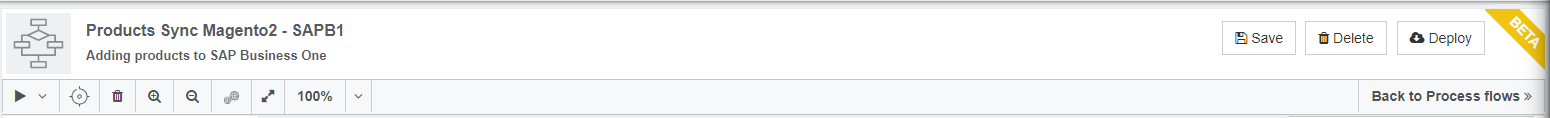
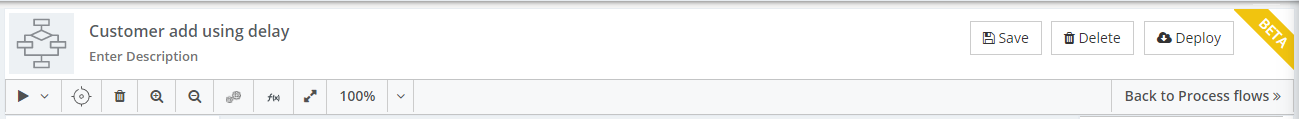
Update Functions Listing, edit, create & Validate

diff --git a/_posts/ProcessFlow Management/Quickstart/2020-03-16-designer-processflow.md b/_posts/ProcessFlow Management/Quickstart/2020-03-16-designer-processflow.md
@@ -22,12 +22,12 @@ This section enables the user to implement business scenarios by designing proce
 The page is divided into 4 sections that are static for every processflow designing page. 
 The following sections are:  
 
-**processflow Header panel**  
-**processflow Left panel**  
-**processflow Designer View**  
-**processflow Right Panel**  
+**Processflow Header panel**  
+**Processflow Left panel**  
+**Processflow Designer View**  
+**Processflow Right Panel**  
 
-## processflow Header Panel
+## Processflow Header Panel
 
 ![Create Processflow4](../../staticfiles/processflow/media/create-processflow4.png)
 
@@ -46,7 +46,8 @@ Details of the list of executable buttons are given below:
 * Delete button: The delete button will allow to delete the selected Nodes and link in the processflow. You will get a confirmation pop-up for the delete operation of the workflow. 
 * Zoom in: You can zoom in the processflows for better viewing purpose.
 * Zoom out: You can zoom out the processflow for better user experience. Users can also resize the screen accordingly. 
-* Link Order: YOu can sequence your execution order of your processflow. On clicking the [Link Order](/processflow/link-order-sequencing/) button, the order sequence window configuration window opens.
+* Link Order: You can sequence your execution order of your processflow. On clicking the [Link Order](/processflow/link-order-sequencing/) button, the order sequence window configuration window opens.
+* User Defined Functions: Here, you can implement multiple Cloud Appresource User Defined Functions for implementing Definite Tasks within your ProcessFlow. For more details on the Cloud Appresource User Defined Functions, [Click Here](/processflow/overview-of-user-defined-functions/).
 * To view the screen in full screen mode, click the Button for Full Screen.
 * You will have the option adjust the screen resolution to 100%, 50% & 25% & Fit to Screen as per the need.
 * Save: The save button allows you to save the following processflow for later use. You can edit the processflows anytime by clicking the edit button available in the processflow listing Page.
@@ -54,7 +55,7 @@ Details of the list of executable buttons are given below:
 
 You can view the **Back to processflow** button that will navigate you to the [listing page](/processflow/processflow-listing-page/). 
 
-## processflow Left Panel
+## Processflow Left Panel
 Here the users can add processflows nodes to the processflow designer panel. The nodes
  can be dragged and dropped in the design panel for configuring & designing the Process 
 flow. Users can utilize any node based on the business requirement and can view the 
@@ -77,14 +78,14 @@ On dragging the applications to the designer panel, the node configuration windo
 
 ![Create Processflow5](../../staticfiles/processflow/media/create-processflow5.png)
 
-## processflow Designer View 
+## Processflow Designer View 
 Here you can design/create the processflow. Drag and drop the required nodes to the 
 designer panel for creating the processflow. Expanding the menu in the left panel, 
 you can view all the node that can applied for designing the processflow.
 
 ![Create Processflow6](../../staticfiles/processflow/media/create-processflow6.png)  
 
-## processflow Right Panel
+## Processflow Right Panel
 The right panel of the processflow Designer Page will have the following sections:  
 ![Create Processflow7](../../staticfiles/processflow/media/create-processflow7.PNG)  
 * Suggested Node: Here you will get suggestions of providing nodes that can be applied with the node dragged in the processflow designer panel.

diff --git a/_posts/ProcessFlow Management/User Defined Functions/2014-01-14-Create-User-Defined-Functions.md b/_posts/ProcessFlow Management/User Defined Functions/2014-01-14-Create-User-Defined-Functions.md
@@ -27,7 +27,7 @@ Follow the steps below to create the user Defined Cloud Appresource Functions.
 
 1) Login to the Portal and Navigate to the [ProcessFlow Designer](/processflow/designer-processflow/) Page.
 
-2) Click on the Functions Icon available in Header Panel of the designer page.
+2) Click on the Functions Icon available in [Header Panel](/processflow/designer-processflow/#processflow-header-panel) of the designer page.
 
 ![udfcreate1](\staticfiles\processflow\media\udfcreate1.png)
 
@@ -37,20 +37,20 @@ Follow the steps below to create the user Defined Cloud Appresource Functions.
 
 ## Creating User Defined Functions
 
-Once you are in the UDF Listing window, you can now proceed with the create of User Defined Functions.
+Once you are in the UDF Listing window, you can now create User Defined Functions.
 
-4) Click on the **(+)** button to create functions.
-The CREATE Page Opens.
+4) Click on the **(+)** button beside the FILTER icons to create functions.
+The CREATE Page opens on your Right.
 
 ![udfcreate4](\staticfiles\processflow\media\udfcreate4.png)
 
-5) Either way you will land on the **CREATE Page** for defining the function.
+**You can anytime FILTER your created functions using Function Name, if the list of Functions is exhaustive.**
 
-6) You need to Provide the **Function Name** & **Description** for its definition.
+5) You need to Provide the **Function Name** & **Function Description** for its definition.
 
 ![udfcreate5](\staticfiles\processflow\media\udfcreate5.png)
 
-7) Once defined, you need to navigate to the **editor** for the function code definition. Click on the **Go to Editor** for the same.
+6) Once defined, you need to navigate to the **editor** for the function code definition. Click on the **Go to Editor** for the same.
 
 For more information on the Code Editor, Visit [UDF Code Editor and Validation](/processflow/Function-Code-Validation/).
 
@@ -64,9 +64,11 @@ You can use your created functions in the listed areas:
 - [Action Filter](/processflow/manage-actions-actionfilters-errorfilters/#adding-action-filters): You can use your created functions within the Action Filter of a ProcessFlow, provided the return Type of your function should not be a **Complex Object** or **Complex Object Collection**.
 - [Error/retry Filter](/processflow/manage-actions-actionfilters-errorfilters/#adding-retry-filters): You can use your created functions within the Error/retry Filters of a Processflow, provided the return Type of your function should not be a **Complex Object** or **Complex Object Collection**.
 
+
+
 **Note:**
 
-- You can also create your Cloud Appresource Functions from the mapper node. For more information on that steps, [click here](/processflow/cloud-appresource-functions/).
+- You can also create your Cloud Appresource Functions from the mapper node. For more informations on it, [click here](/processflow/cloud-appresource-functions/).
 - All the created functions irrespective of the areas, the functions will be listed on the UDF Listing Window. For more details on the Listing page, [Click Here](/processflow/Listing-Editing-user-defined-functions/).
 - You cannot create Functions with same **Function Name**.
 - The name must begin with a letter and can contain letters, numbers, and the following special characters: `_ @ $ #`.

diff --git a/_posts/ProcessFlow Management/User Defined Functions/2014-01-14-overview-of-user-defined-functions.md b/_posts/ProcessFlow Management/User Defined Functions/2014-01-14-overview-of-user-defined-functions.md
@@ -19,5 +19,5 @@ Below are the modules that would help you to work with the functions.
 |Modules|Description|
 |------------------|----------------|
 |[Creating User Defined Functions](/processflow/Create-User-Defined-Functions/)| This document will help you with the steps and information for creating User Defined Appresource Functions.|
-|[Listing & Editing User Defined Functions](/processflow/Listing-Editing-user-defined-functions/)|This document will help with the steps and information on the listing structure of this feature. You will also get related informations on Editing, Modifying Code and Deleting existing listed functions.| |
+|[Listing & Editing User Defined Functions](/processflow/Listing-Editing-user-defined-functions/)|This document will help you with the steps and information on its listing structure. You will also get related informations on **Editing**, **Modifying Code** and **Deleting**    existing listed functions.| |
 |[Function Code validation](/processflow/Function-Code-Validation/)|This document will help you with the instructions related to the Code Editor Window for Validation process of the Function Code.|

diff --git a/_posts/ProcessFlow Management/User Defined Functions/2021-01-10-Function-Code-Validation.md b/_posts/ProcessFlow Management/User Defined Functions/2021-01-10-Function-Code-Validation.md
@@ -12,7 +12,7 @@ menus:
 
 ---
 
-This section of the document will allow you to know the code editor and the validation process of your function.
+This section of the document will allow you to gain knowledge on the code editor and the validation process the defined function.
 
 ## Code Editor:
 
